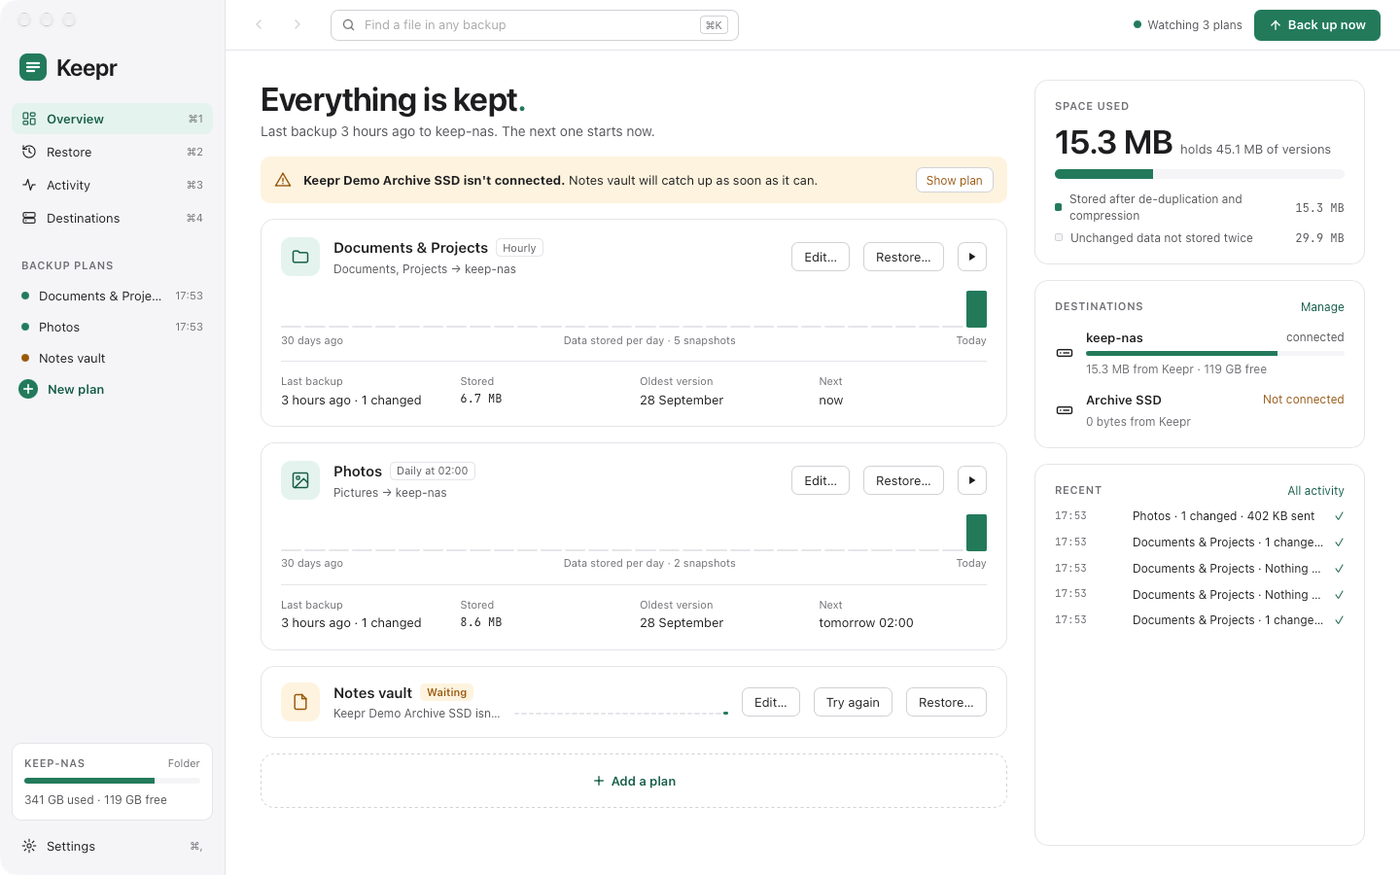
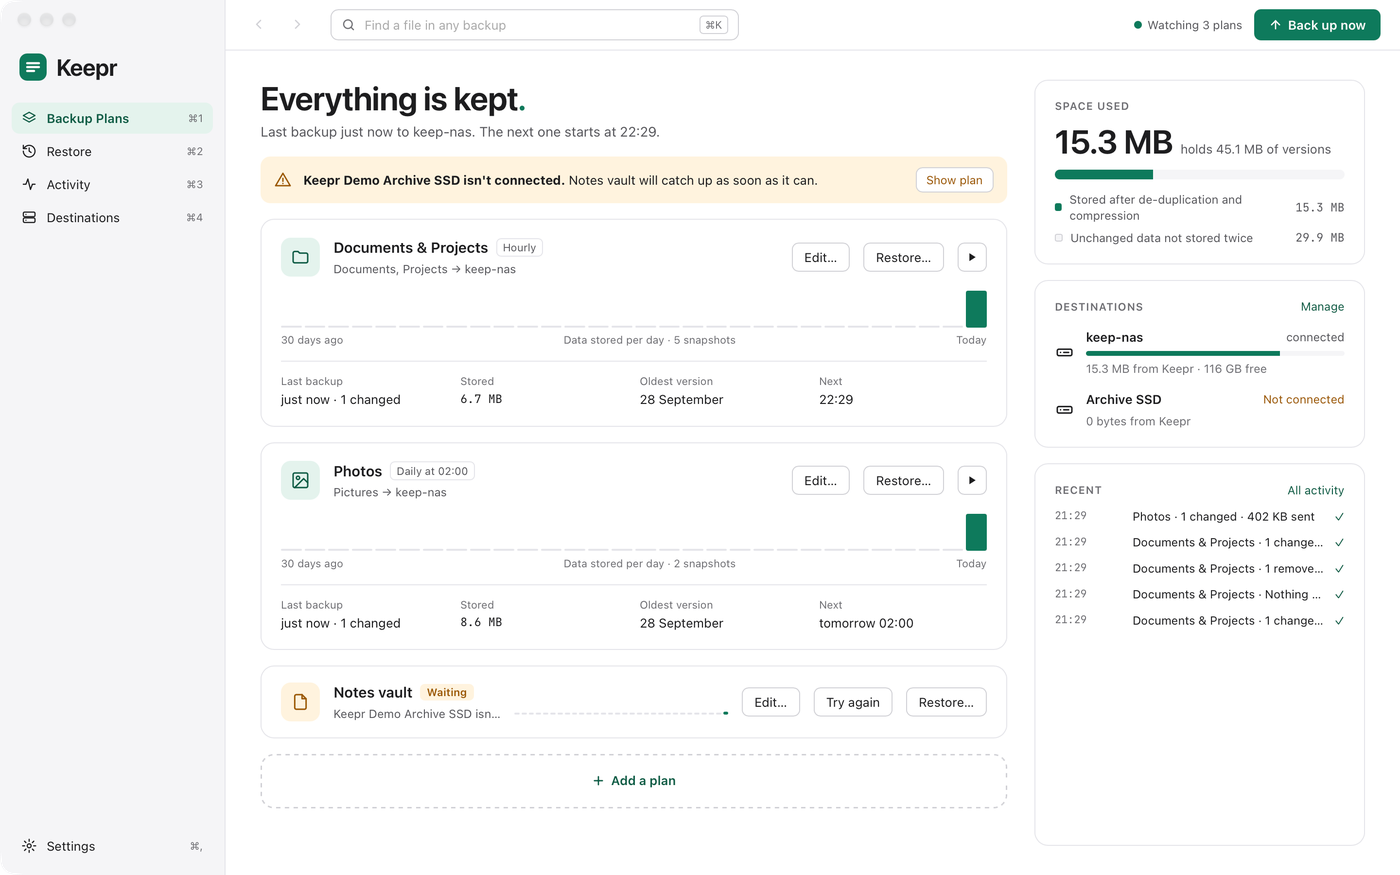
Backup Plans home, plan tabs in Restore, run logs in Activity
Overview is now Backup Plans; the sidebar's plan list and storage card are
gone (plans are edited from their cards; Add a plan and ⌘N make one).
Restore picks a plan with tabs. Every run keeps a step-by-step log (what was
read and stored, the snapshot, files that couldn't be read or written), and
Activity rows expand to show it. Version 0.1.18.

diff --git a/src/App.tsx b/src/App.tsx
@@ -4,7 +4,6 @@ import { createContext, useCallback, useContext, useEffect, useRef, useState } f
 import { api, on, type Config, type JobStatus, type Overview as OverviewData } from "./api";
 import { Icon, Mark } from "./icons";
 import { pct, ToastProvider, Tooltips } from "./ui";
-import { bytes } from "./format";
 import Overview from "./Overview";
 import Plans from "./Plans";
 import Restore from "./Restore";
@@ -36,9 +35,9 @@ type AppCtx = {
 const Ctx = createContext<AppCtx>(null as unknown as AppCtx);
 export const useApp = () => useContext(Ctx);
 
-// Plans aren't here: they're listed under Backup Plans below, each opening its own settings.
+// Backup Plans is the overview of every plan; a plan's settings open from its card.
 const NAV: [Screen["name"], string, string, string][] = [
-  ["overview", "Overview", "overview", "⌘1"],
+  ["overview", "Backup Plans", "plans", "⌘1"],
   ["restore", "Restore", "restore", "⌘2"],
   ["activity", "Activity", "activity", "⌘3"],
   ["destinations", "Destinations", "server", "⌘4"],
@@ -53,10 +52,7 @@ export function statusDot(status: string): string {
 }
 
 function Sidebar() {
-  const { ov, screen, go } = useApp();
-  const restoring = screen.name === "restore";
-  const plans = ov?.plans ?? [];
-  const nas = ov?.destinations.find((d) => d.total);
+  const { screen, go } = useApp();
   return (
     <nav className="sidebar" aria-label="Sidebar">
       <div className="brand">
@@ -65,51 +61,14 @@ function Sidebar() {
       </div>
       <div className="nav">
         {NAV.map(([name, label, icon, key]) => (
-          <button key={name} className={screen.name === name ? "on" : ""} onClick={() => go({ name } as Screen)} title={`${label} ${key}`}>
+          <button key={name} className={screen.name === name || (name === "overview" && screen.name === "plans") ? "on" : ""} onClick={() => go({ name } as Screen)} title={`${label} ${key}`}>
             <Icon name={icon} />
             <span className="grow">{label}</span>
             <span className="key">{key}</span>
           </button>
         ))}
       </div>
-      <div className="side-section">
-        <span className="caps">{restoring ? "Restore from" : "Backup Plans"}</span>
-      </div>
-      <div className="col" style={{ gap: 2 }}>
-        {plans.map((p) => {
-          const on = (screen.name === "restore" || screen.name === "plans") && (screen.plan === p.id || (!screen.plan && !(screen.name === "plans" && screen.isNew) && plans[0].id === p.id));
-          return (
-            <button key={p.id} className={`side-item${on ? " on" : ""}`} onClick={() => go(restoring ? { name: "restore", plan: p.id } : { name: "plans", plan: p.id })} title={restoring ? `Restore from ${p.name}` : `${p.name}: ${p.schedule}`}>
-              <span className={statusDot(p.status)} />
-              <span className="grow ellipsis">{p.name}</span>
-              <span className="tiny faint">{restoring ? p.snapshots.toLocaleString() : p.status === "running" ? "…" : shortAgo(p.lastSuccess)}</span>
-            </button>
-          );
-        })}
-        {!restoring && (
-          <button className={`side-item${screen.name === "plans" && screen.isNew ? " on" : ""}`} onClick={() => go({ name: "plans", isNew: true })} title="Make a new backup plan ⌘N" style={{ color: "var(--accent-text)" }}>
-            <span style={{ width: 20, height: 20, borderRadius: 10, background: "var(--accent)", color: "var(--accent-ink)", display: "flex", alignItems: "center", justifyContent: "center", flexShrink: 0, marginLeft: -3 }}>
-              <Icon name="plus" size={14} stroke={2.8} />
-            </span>
-            <span className="grow" style={{ fontWeight: 600 }}>New plan</span>
-          </button>
-        )}
-      </div>
       <div className="grow" />
-      {nas && (
-        <div className="side-card">
-          <div className="row" style={{ justifyContent: "space-between" }}>
-            <span className="caps">{nas.name}</span>
-            <span className="tiny faint">{nas.kind === "smb" ? "SMB" : "Folder"}</span>
-          </div>
-          <div className="meter">
-            <div style={{ width: `${Math.round((1 - (nas.free ?? 0) / (nas.total ?? 1)) * 100)}%` }} />
-          </div>
-          <span className="small muted">
-            {bytes((nas.total ?? 0) - (nas.free ?? 0))} used · {bytes(nas.free)} free
-          </span>
-        </div>
-      )}
       <button className={`navlink${screen.name === "settings" ? " on" : ""}`} style={{ marginTop: 10 }} onClick={() => go({ name: "settings" })} title="Settings ⌘,">
         <Icon name="settings" />
         <span className="grow">Settings</span>
@@ -119,16 +78,6 @@ function Sidebar() {
   );
 }
 
-function shortAgo(iso: string | null): string {
-  if (!iso) return "";
-  const s = (Date.now() - new Date(iso).getTime()) / 1000;
-  if (s < 3600) return `${Math.max(1, Math.round(s / 60))}m`;
-  if (s < 86400) {
-    const d = new Date(iso);
-    return `${String(d.getHours()).padStart(2, "0")}:${String(d.getMinutes()).padStart(2, "0")}`;
-  }
-  return ["Sun", "Mon", "Tue", "Wed", "Thu", "Fri", "Sat"][new Date(iso).getDay()];
-}
 
 function Toolbar({ back, forward, canBack, canForward }: { back: () => void; forward: () => void; canBack: boolean; canForward: boolean }) {
   const { ov, go, screen } = useApp();

diff --git a/src/Activity.tsx b/src/Activity.tsx
@@ -1,7 +1,7 @@
 // Activity: what is running now, step by step, and the history of every backup, check, tidy-up
 // and restore.
 
-import { useEffect, useState } from "react";
+import { Fragment, useEffect, useState } from "react";
 import { api, type Run } from "./api";
 import { useApp } from "./App";
 import { Icon } from "./icons";
@@ -153,6 +153,13 @@ export default function Activity() {
   const { ov, job } = useApp();
   const [runs, setRuns] = useState<Run[]>([]);
   const [filter, setFilter] = useState<"all" | "problems" | "restores">("all");
+  const [open, setOpen] = useState<Set<string>>(new Set());
+  const toggle = (id: string) => {
+    const s = new Set(open);
+    if (s.has(id)) s.delete(id);
+    else s.add(id);
+    setOpen(s);
+  };
   useEffect(() => {
     api.history(300).then(setRuns);
   }, [ov]);
@@ -186,9 +193,18 @@ export default function Activity() {
               {shown.map((r) => {
                 const secs = (new Date(r.finished).getTime() - new Date(r.started).getTime()) / 1000;
                 const tone = r.result === "ok" ? "ok" : r.result === "failed" ? "bad" : r.result === "cancelled" ? "plain" : "warn";
+                const isOpen = open.has(r.id);
                 return (
-                  <tr key={r.id}>
-                    <td className="muted nowrap">{when(r.started)}</td>
+                  <Fragment key={r.id}>
+                  <tr onClick={() => toggle(r.id)} style={{ cursor: "default" }} title={isOpen ? "Hide the log" : "Show the log"}>
+                    <td className="muted nowrap">
+                      <span className="row" style={{ gap: 6 }}>
+                        <button className={`disc${isOpen ? " open" : ""}`} aria-label={isOpen ? "Hide the log" : "Show the log"} aria-expanded={isOpen} onClick={(e) => (e.stopPropagation(), toggle(r.id))}>
+                          <Icon name="forward" size={12} stroke={2.6} />
+                        </button>
+                        {when(r.started)}
+                      </span>
+                    </td>
                     <td>{nameOf(r.plan)}</td>
                     <td className="muted">{kindName[r.kind] ?? r.kind}</td>
                     <td className="muted">{r.result !== "ok" && r.result !== "warning" ? "—" : r.kind === "backup" || r.kind === "full" ? (r.changed ? `${r.changed.toLocaleString()} changed` : "none changed") : r.files ? r.files.toLocaleString() : "—"}</td>
@@ -205,6 +221,16 @@ export default function Activity() {
                       {r.message && <div className="small muted" style={{ marginTop: 3 }}>{r.message}</div>}
                     </td>
                   </tr>
+                  {isOpen && (
+                    <tr>
+                      <td colSpan={7} style={{ borderTop: 0, paddingTop: 0 }}>
+                        <div className="mono" style={{ fontSize: 11, lineHeight: 1.6, background: "var(--sunk)", borderRadius: 8, padding: "10px 14px", whiteSpace: "pre-wrap", wordBreak: "break-word", userSelect: "text", WebkitUserSelect: "text", maxHeight: 360, overflow: "auto" }}>
+                          {r.log && r.log.length ? r.log.join("\n") : "No log for this run: it ran before Keepr kept logs."}
+                        </div>
+                      </td>
+                    </tr>
+                  )}
+                  </Fragment>
                 );
               })}
             </tbody>

diff --git a/src/Restore.tsx b/src/Restore.tsx
@@ -3,7 +3,7 @@
 
 import { useCallback, useEffect, useMemo, useState } from "react";
 import { api, type Comparison, type Conflict, type Entry, type SnapInfo, type Version } from "./api";
-import { useApp } from "./App";
+import { statusDot, useApp } from "./App";
 import { Icon } from "./icons";
 import { PlanProgress, Sheet, Switch, useAct, useToast } from "./ui";
 import { bytes, dayKey, dayLabel, longWhen, tilde, when } from "./format";
@@ -288,13 +288,15 @@ export default function Restore() {
     <>
       <div className="content col" style={{ gap: 16, padding: "20px 32px 18px", overflow: "hidden" }}>
         <div className="row" style={{ gap: 12 }}>
-          <select className="input" style={{ fontWeight: 600 }} value={plan.id} onChange={(e) => go({ name: "restore", plan: e.target.value })} aria-label="Plan to restore from">
+          <div className="tabs" role="tablist" aria-label="Plan to restore from">
             {plans.map((p) => (
-              <option key={p.id} value={p.id}>
+              <button key={p.id} role="tab" aria-selected={p.id === plan.id} className={p.id === plan.id ? "on" : ""} onClick={() => go({ name: "restore", plan: p.id })} title={`${p.snapshots.toLocaleString()} snapshots`}>
+                <span className={statusDot(p.status)} />
                 {p.name}
-              </option>
+                <span className="tiny faint">{p.snapshots.toLocaleString()}</span>
+              </button>
             ))}
-          </select>
+          </div>
           <label className="search" style={{ width: 360 }}>
             <Icon name="search" size={15} stroke={2} />
             <input aria-label="Find in this backup" placeholder={`Find in ${plan.name}`} value={query} onChange={(e) => setQuery(e.target.value)} />

diff --git a/src/styles.css b/src/styles.css
@@ -250,3 +250,9 @@ html.tray body { background: transparent; }
 
 /* A source's default name reads as its name, not as a hint. */
 .source-name::placeholder { color: var(--ink); opacity: 1; }
+
+/* Tabs, as on the Restore screen: one per plan. */
+.tabs { display: flex; gap: 2px; padding: 3px; background: var(--sunk); border: 1px solid var(--line); border-radius: 10px; min-width: 0; overflow-x: auto; }
+.tabs button { display: flex; align-items: center; gap: 8px; height: 30px; padding: 0 12px; border: 0; border-radius: 7px; background: transparent; white-space: nowrap; color: var(--ink2); }
+.tabs button:hover { color: var(--ink); }
+.tabs button.on { background: var(--surface); box-shadow: var(--seg); color: var(--ink); font-weight: 600; }

diff --git a/src/api.ts b/src/api.ts
@@ -97,6 +97,7 @@ export type Run = {
   addedBytes: number;
   storedBytes: number;
   dupBytes: number;
+  log?: string[];
 };
 
 export type SnapInfo = { id: string; time: string; kind: string; files: number; bytes: number; changed: number; addedBytes: number };

diff --git a/src-tauri/src/core.rs b/src-tauri/src/core.rs
@@ -452,7 +452,7 @@ impl Core {
         *self.current.lock().unwrap() = Some(cur.clone());
         self.changed();
         let plan_name = self.config.lock().unwrap().plan(job.plan()).map(|p| p.name.clone()).unwrap_or_default();
-        let mut run = Run { id, plan: job.plan().into(), kind: job.kind().into(), started: cur.started_at.clone(), finished: String::new(), result: "ok".into(), message: String::new(), files: 0, changed: 0, read_bytes: 0, added_bytes: 0, stored_bytes: 0, dup_bytes: 0 };
+        let mut run = Run { id, plan: job.plan().into(), kind: job.kind().into(), started: cur.started_at.clone(), finished: String::new(), result: "ok".into(), message: String::new(), files: 0, changed: 0, read_bytes: 0, added_bytes: 0, stored_bytes: 0, dup_bytes: 0, log: vec![] };
         let outcome = match &job {
             Job::Backup { plan, full } => self.backup(&cur, plan, *full, &mut run),
             Job::Restore { plan, snapshot, items, target, conflict } => self.restore(&cur, plan, snapshot, items, target, *conflict, &mut run),
@@ -464,6 +464,7 @@ impl Core {
         match outcome {
             Ok(()) => {}
             Err(e) if e == "cancelled" => {
+                run.note("Stopped. Nothing half-done was kept.");
                 run.result = "cancelled".into();
                 run.message = "Stopped".into();
             }
@@ -476,6 +477,7 @@ impl Core {
                 }
                 drop(s);
                 run.result = if waiting { "waiting".into() } else { "failed".into() };
+                run.note(if waiting { format!("Waiting: {e}") } else { format!("Failed: {e}") });
                 run.message = e.clone();
                 if !waiting && self.config.lock().unwrap().settings.notify_failures {
                     (self.notify)(&format!("{plan_name}: {} didn't finish", if job.kind() == "restore" { "restore" } else { "backup" }), &e);
@@ -505,11 +507,15 @@ impl Core {
     }
 
     fn backup(self: &Arc<Self>, cur: &Arc<Current>, plan_id: &str, full: bool, run: &mut Run) -> Result<(), String> {
-        let (plan, _) = self.plan_and_dest(plan_id)?;
+        let (plan, dest) = self.plan_and_dest(plan_id)?;
+        run.note(format!("{} backup of {} to {}", if full { "Full" } else { "Incremental" }, plan.name, dest.name));
         let repo = self.repo(plan_id, true)?;
+        run.note(format!("Backup opened at {}{}", repo.backend.describe(), if repo.encrypted() { " (encrypted)" } else { "" }));
         let mut sources = Vec::new();
         for s in &plan.sources {
-            sources.push(places::resolve(s, &self.mounts, true, true)?);
+            let p = places::resolve(s, &self.mounts, true, true)?;
+            run.note(format!("Source: {}", places::tilde(&p.to_string_lossy())));
+            sources.push(p);
         }
         let repo_path = self.repos.lock().unwrap().get(plan_id).map(|(p, _)| p.clone());
         *cur.base.lock().unwrap() = (repo.counters.stored_bytes.load(Relaxed), repo.counters.dup_bytes.load(Relaxed));
@@ -525,14 +531,23 @@ impl Core {
             (Some((id, snap)), Some(p)) if !full && local && *snap == p.id.hex() => crate::fsevents::since(&sources, *id),
             _ => None,
         };
+        match (&changes, full) {
+            (_, true) => run.note("Reading every file (a full backup)"),
+            (Some(c), _) => run.note(format!("macOS's change record: {} folders changed since the last backup; the rest are taken as they were", c.touched.len())),
+            (None, _) if parent.is_some() => run.note("Comparing every file with the last snapshot"),
+            (None, _) => run.note("First backup: reading everything"),
+        }
         // Noted before the still copy is taken: anything after it is for the next backup to see.
         let event_id = if local { crate::fsevents::now_id() } else { 0 };
         let still = if local && self.still_copies.load(Relaxed) {
             Self::set_stage(cur, "Taking a still copy");
             match crate::still::take() {
-                Ok(s) => Some(s),
+                Ok(s) => {
+                    run.note(format!("Still copy of the startup disk taken ({})", s.date));
+                    Some(s)
+                }
                 Err(e) => {
-                    eprintln!("still copy: {e}; reading the files as they are");
+                    run.note(format!("No still copy ({e}); reading the files as they are"));
                     None
                 }
             }
@@ -557,6 +572,16 @@ impl Core {
         drop(still);
         let snap = snap?;
         let st = &snap.stats;
+        run.note(format!("Looked at {} files in {} folders ({})", st.files, st.dirs, human_bytes(st.bytes)));
+        run.note(format!("{} new, {} changed, {} removed; read {}", st.new_files, st.changed_files, st.removed_files, human_bytes(st.read_bytes)));
+        run.note(format!("Stored {} of new data as {}; {} was already kept", human_bytes(st.added_bytes), human_bytes(st.stored_bytes), human_bytes(st.dup_bytes)));
+        for e in &st.errors {
+            run.note(format!("Couldn't read {}", places::tilde(e)));
+        }
+        if st.error_count as usize > st.errors.len() {
+            run.note(format!("…and {} more", st.error_count as usize - st.errors.len()));
+        }
+        run.note(format!("Snapshot {} saved in {:.1} s", snap.id.short(), st.duration_ms as f64 / 1000.0));
         run.files = st.files;
         run.changed = st.new_files + st.changed_files + st.removed_files;
         run.read_bytes = st.read_bytes;
@@ -630,7 +655,19 @@ impl Core {
         let snap = repo.snapshots().map_err(|e| e.0)?.into_iter().find(|s| s.id.hex() == snapshot).ok_or("That snapshot is no longer in the backup.")?;
         *cur.repo.lock().unwrap() = Some(repo.clone());
         Self::set_stage(cur, "Restoring");
+        run.note(format!("Restoring {} item{} from the snapshot of {}", items.len(), if items.len() == 1 { "" } else { "s" }, snap.time));
+        for i in items.iter().take(50) {
+            run.note(format!("  {}", places::tilde(i)));
+        }
+        run.note(match target {
+            Target::Original => "To where each was".to_string(),
+            Target::Folder(f) => format!("Into {}", places::tilde(&f.to_string_lossy())),
+        });
         let r = keepr_engine::restore::run(&repo, &snap, items, target, conflict, &cur.ctl).map_err(|e| e.0)?;
+        run.note(format!("{} files ({}) written; {} kept beside an existing file; {} skipped", r.files, human_bytes(r.bytes), r.renamed, r.skipped));
+        for e in &r.errors {
+            run.note(format!("Couldn't write {}", places::tilde(e)));
+        }
         run.files = r.files;
         run.read_bytes = r.bytes;
         let mut parts = vec![format!("{} restored", if r.files == 1 { "1 file".to_string() } else { format!("{} files", r.files) })];
@@ -651,7 +688,12 @@ impl Core {
     fn check(&self, cur: &Arc<Current>, plan_id: &str, all: bool, run: &mut Run) -> Result<(), String> {
         let repo = self.repo(plan_id, false)?;
         Self::set_stage(cur, "Checking");
+        run.note(if all { "Checking every snapshot and reading all the data back" } else { "Checking every snapshot and reading a sample of the data back" });
         let rep = keepr_engine::check::run(&repo, if all { 1.0 } else { 0.05 }, &cur.ctl).map_err(|e| e.0)?;
+        run.note(format!("{} snapshots, {} folders, {} chunks in {} packs; {} packs ({}) read back", rep.snapshots, rep.trees, rep.chunks, rep.packs, rep.packs_read, human_bytes(rep.bytes_read)));
+        for p in &rep.problems {
+            run.note(format!("Problem: {p}"));
+        }
         self.state.lock().unwrap().plan(plan_id).last_check = Some(now());
         run.read_bytes = rep.bytes_read;
         if rep.problems.is_empty() {
@@ -669,7 +711,9 @@ impl Core {
         let (plan, _) = self.plan_and_dest(plan_id)?;
         let repo = self.repo(plan_id, false)?;
         Self::set_stage(cur, "Tidying up");
+        run.note("Applying the version rules");
         let p = keepr_engine::prune::run(&repo, &plan.retention, &cur.ctl).map_err(|e| e.0)?;
+        run.note(format!("{} snapshots kept, {} removed; {} packs deleted, {} rewritten; {} freed", p.kept, p.forgotten, p.packs_deleted, p.packs_rewritten, human_bytes(p.bytes_freed)));
         self.state.lock().unwrap().plan(plan_id).last_prune = Some(now());
         self.refresh_stats(plan_id, &repo);
         run.message = if p.forgotten == 0 && p.bytes_freed == 0 {
@@ -688,7 +732,9 @@ impl Core {
             Place::Folder { path, .. } => path.clone(),
             Place::Smb(_) => places::resolve(source, &self.mounts, true, true)?.to_string_lossy().to_string(),
         };
+        run.note(format!("Taking {} out of every snapshot", places::tilde(&key)));
         let p = keepr_engine::prune::remove_source(&repo, &key, &cur.ctl).map_err(|e| e.0)?;
+        run.note(format!("{} snapshots rewritten, {} unchanged; {} freed", p.forgotten, p.kept, human_bytes(p.bytes_freed)));
         {
             let mut s = self.state.lock().unwrap();
             let ps = s.plan(plan_id);

diff --git a/src-tauri/src/config.rs b/src-tauri/src/config.rs
@@ -226,6 +226,18 @@ pub struct Run {
     pub stored_bytes: u64,
     #[serde(default)]
     pub dup_bytes: u64,
+    /// What happened, step by step, for Activity to show when the run is expanded.
+    #[serde(default, skip_serializing_if = "Vec::is_empty")]
+    pub log: Vec<String>,
+}
+
+impl Run {
+    /// Adds a line to the run's log, stamped with the time.
+    pub fn note(&mut self, line: impl AsRef<str>) {
+        if self.log.len() < 400 {
+            self.log.push(format!("{}  {}", chrono::Local::now().format("%H:%M:%S"), line.as_ref()));
+        }
+    }
 }
 
 #[derive(Serialize, Deserialize, Clone, Debug, Default)]
